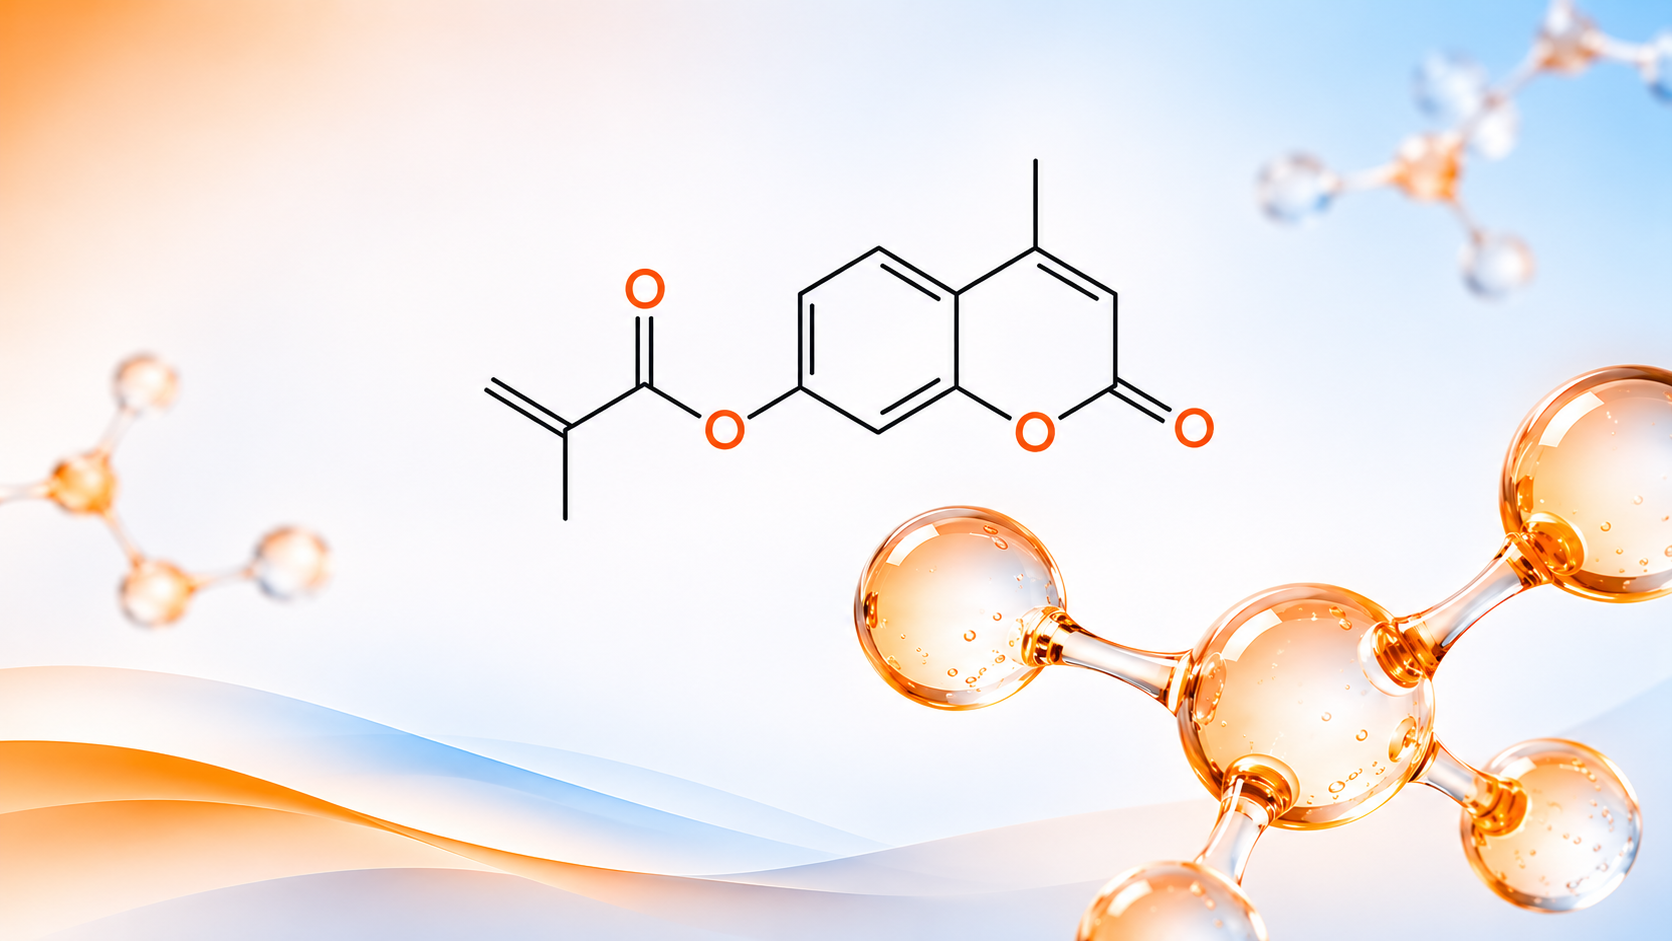
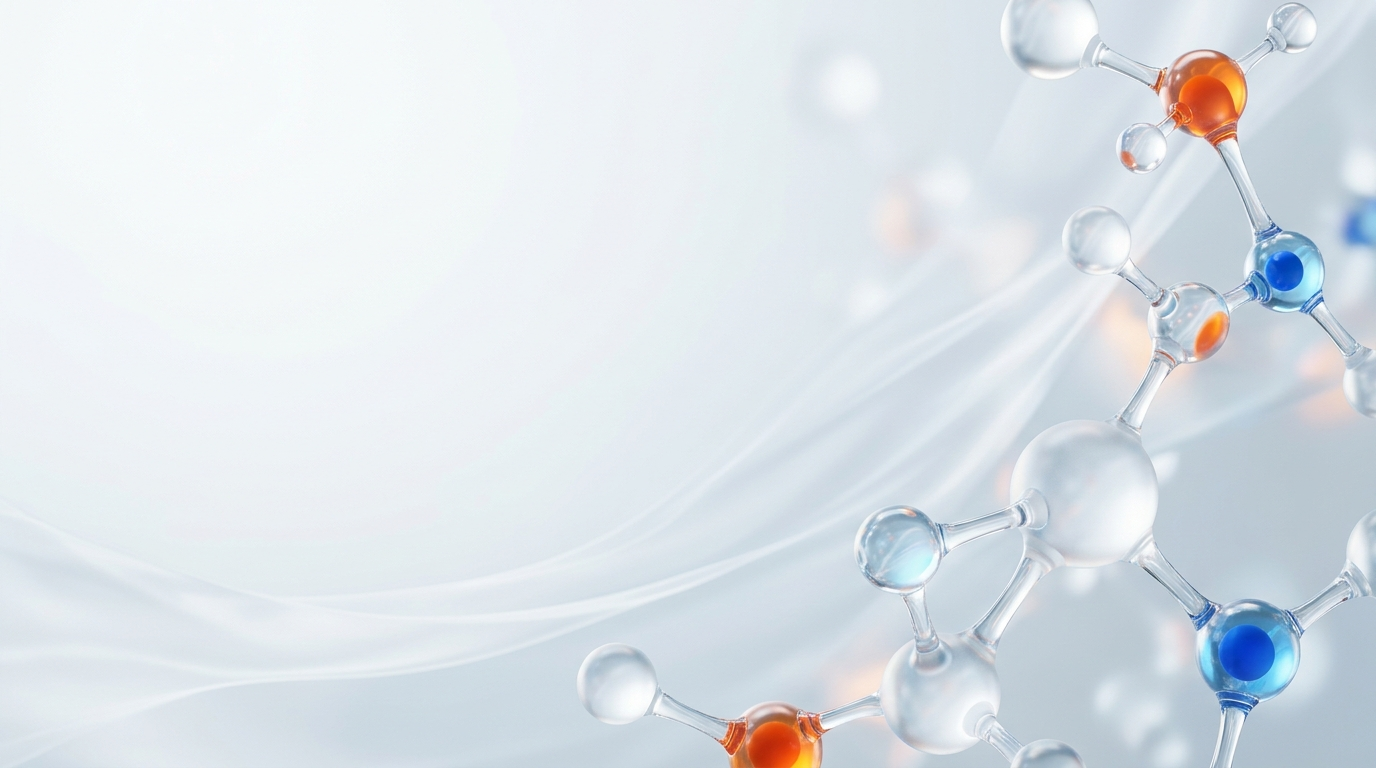
fix(design): standardize subtle chemical backgrounds and high-contrast text overlays across all pages

diff --git a/src/app/solutions/[slug]/page.tsx b/src/app/solutions/[slug]/page.tsx
@@ -31,17 +31,17 @@ export default async function SolutionInnerPage({ params }: PageProps) {
       <main className="min-h-screen bg-white pb-20">
         {/* Solution Hero */}
         <section className="relative bg-gray-100 text-gray-900 pt-20 md:pt-28 pb-16 md:pb-24 overflow-hidden">
-          {/* Background Image with Light Gray/White 50% Translucent Overlay */}
+          {/* Subtle Consistent Chemical Background Overlay */}
           <div className="absolute inset-0 z-0">
             <Image
               src="/images/backgrounds/bg3.png"
               alt="Solution Details Background"
               fill
               priority
-              className="object-cover object-center"
+              className="object-cover object-right md:object-center"
               sizes="100vw"
             />
-            <div className="absolute inset-0 bg-white/50 bg-gradient-to-r from-white/70 via-white/55 to-gray-100/50 backdrop-blur-[1px]" />
+            <div className="absolute inset-0 bg-white/70 bg-gradient-to-r from-white/95 via-white/85 to-white/50 backdrop-blur-[1px]" />
           </div>
 
           <div className="relative z-10 container mx-auto px-5 sm:px-6 lg:px-8 max-w-5xl">

diff --git a/src/app/contact/page.tsx b/src/app/contact/page.tsx
@@ -27,17 +27,17 @@ export default function ContactPage() {
       <Header />
       <main className="min-h-screen bg-gray-50 pb-16 sm:pb-20">
         <section className="relative bg-gray-100 text-gray-900 pt-20 md:pt-28 pb-12 sm:pb-16 md:pb-20 mb-8 sm:mb-12 overflow-hidden">
-          {/* Background Image with Light Gray/White 50% Translucent Overlay */}
+          {/* Subtle Consistent Chemical Background Overlay */}
           <div className="absolute inset-0 z-0">
             <Image
               src="/images/backgrounds/bg5.png"
               alt="Contact National Polymers Background"
               fill
               priority
-              className="object-cover object-center"
+              className="object-cover object-right md:object-center"
               sizes="100vw"
             />
-            <div className="absolute inset-0 bg-white/50 bg-gradient-to-r from-white/70 via-white/55 to-gray-100/50 backdrop-blur-[1px]" />
+            <div className="absolute inset-0 bg-white/70 bg-gradient-to-r from-white/95 via-white/85 to-white/50 backdrop-blur-[1px]" />
           </div>
 
           <div className="relative z-10 container mx-auto px-4 sm:px-6 lg:px-8 max-w-6xl">

diff --git a/src/app/about/page.tsx b/src/app/about/page.tsx
@@ -13,17 +13,17 @@ export default function AboutPage() {
       <main className="min-h-screen bg-white pb-20">
         {/* Hero Section */}
         <section className="relative bg-gray-100 text-gray-900 pt-20 md:pt-28 pb-16 md:pb-24 overflow-hidden">
-          {/* Background Image with Light Gray/White 50% Translucent Overlay */}
+          {/* Subtle Consistent Chemical Background Overlay */}
           <div className="absolute inset-0 z-0">
             <Image
               src="/images/backgrounds/bg3.png"
               alt="About National Polymers Background"
               fill
               priority
-              className="object-cover object-center"
+              className="object-cover object-right md:object-center"
               sizes="100vw"
             />
-            <div className="absolute inset-0 bg-white/50 bg-gradient-to-r from-white/70 via-white/55 to-gray-100/50 backdrop-blur-[1px]" />
+            <div className="absolute inset-0 bg-white/70 bg-gradient-to-r from-white/95 via-white/85 to-white/50 backdrop-blur-[1px]" />
           </div>
 
           <div className="relative z-10 container mx-auto px-5 sm:px-6 lg:px-8 max-w-6xl">

diff --git a/src/app/blogs/page.tsx b/src/app/blogs/page.tsx
@@ -15,17 +15,17 @@ export default async function BlogsPage() {
       <Header />
       <main className="min-h-screen bg-gray-50 pb-20">
         <section className="relative bg-gray-100 text-gray-900 pt-20 md:pt-28 pb-14 md:pb-20 mb-12 overflow-hidden">
-          {/* Background Image with Light Gray/White 50% Translucent Overlay */}
+          {/* Subtle Consistent Chemical Background Overlay */}
           <div className="absolute inset-0 z-0">
             <Image
               src="/images/backgrounds/b4.png"
               alt="Blogs & Insights Background"
               fill
               priority
-              className="object-cover object-center"
+              className="object-cover object-right md:object-center"
               sizes="100vw"
             />
-            <div className="absolute inset-0 bg-white/50 bg-gradient-to-r from-white/70 via-white/55 to-gray-100/50 backdrop-blur-[1px]" />
+            <div className="absolute inset-0 bg-white/70 bg-gradient-to-r from-white/95 via-white/85 to-white/50 backdrop-blur-[1px]" />
           </div>
 
           <div className="relative z-10 container mx-auto px-5 sm:px-6 lg:px-8 max-w-6xl">

diff --git a/src/app/applications/page.tsx b/src/app/applications/page.tsx
@@ -63,17 +63,17 @@ export default function ApplicationsPage() {
       <Header />
       <main className="min-h-screen bg-gray-50 pb-20">
         <section className="relative bg-gray-100 text-gray-900 pt-20 md:pt-28 pb-14 md:pb-20 mb-12 overflow-hidden">
-          {/* Background Image with Light Gray/White 50% Translucent Overlay */}
+          {/* Subtle Consistent Chemical Background Overlay */}
           <div className="absolute inset-0 z-0">
             <Image
               src="/images/backgrounds/bg2.png"
               alt="Applications Background"
               fill
               priority
-              className="object-cover object-center"
+              className="object-cover object-right md:object-center"
               sizes="100vw"
             />
-            <div className="absolute inset-0 bg-white/50 bg-gradient-to-r from-white/70 via-white/55 to-gray-100/50 backdrop-blur-[1px]" />
+            <div className="absolute inset-0 bg-white/70 bg-gradient-to-r from-white/95 via-white/85 to-white/50 backdrop-blur-[1px]" />
           </div>
 
           <div className="relative z-10 container mx-auto px-5 sm:px-6 lg:px-8 max-w-6xl">

diff --git a/src/app/markets/page.tsx b/src/app/markets/page.tsx
@@ -49,17 +49,17 @@ export default function MarketsPage() {
       <Header />
       <main className="min-h-screen bg-gray-50 pb-20">
         <section className="relative bg-gray-100 text-gray-900 pt-20 md:pt-28 pb-14 md:pb-20 mb-12 overflow-hidden">
-          {/* Background Image with Light Gray/White 50% Translucent Overlay */}
+          {/* Subtle Consistent Chemical Background Overlay */}
           <div className="absolute inset-0 z-0">
             <Image
               src="/images/backgrounds/bg5.png"
               alt="Global Markets Background"
               fill
               priority
-              className="object-cover object-center"
+              className="object-cover object-right md:object-center"
               sizes="100vw"
             />
-            <div className="absolute inset-0 bg-white/50 bg-gradient-to-r from-white/70 via-white/55 to-gray-100/50 backdrop-blur-[1px]" />
+            <div className="absolute inset-0 bg-white/70 bg-gradient-to-r from-white/95 via-white/85 to-white/50 backdrop-blur-[1px]" />
           </div>
 
           <div className="relative z-10 container mx-auto px-5 sm:px-6 lg:px-8 max-w-6xl">

diff --git a/src/app/products/[slug]/page.tsx b/src/app/products/[slug]/page.tsx
@@ -40,17 +40,17 @@ export default async function ProductInnerPage({ params }: PageProps) {
 
         {/* ─── HERO BANNER ─── */}
         <section className="relative bg-gray-100 overflow-hidden pt-20 md:pt-28 pb-12 sm:pb-16 md:pb-20">
-          {/* Background Image with Light Gray/White 50% Translucent Overlay */}
+          {/* Subtle Consistent Chemical Background Overlay */}
           <div className="absolute inset-0 z-0">
             <Image
               src="/images/backgrounds/b4.png"
               alt="Product Details Background"
               fill
               priority
-              className="object-cover object-center"
+              className="object-cover object-right md:object-center"
               sizes="100vw"
             />
-            <div className="absolute inset-0 bg-white/50 bg-gradient-to-r from-white/70 via-white/55 to-gray-100/50 backdrop-blur-[1px]" />
+            <div className="absolute inset-0 bg-white/70 bg-gradient-to-r from-white/95 via-white/85 to-white/50 backdrop-blur-[1px]" />
           </div>
 
           <div className="relative z-10 container mx-auto px-4 sm:px-6 lg:px-8 max-w-6xl">

diff --git a/src/app/solutions/page.tsx b/src/app/solutions/page.tsx
@@ -12,17 +12,17 @@ export default function SolutionsPage() {
       <Header />
       <main className="min-h-screen bg-gray-50 pb-20">
         <section className="relative bg-gray-100 text-gray-900 pt-20 md:pt-28 pb-14 md:pb-20 mb-12 overflow-hidden">
-          {/* Background Image with Light Gray/White 50% Translucent Overlay */}
+          {/* Subtle Consistent Chemical Background Overlay */}
           <div className="absolute inset-0 z-0">
             <Image
               src="/images/backgrounds/bg3.png"
               alt="Solutions Background"
               fill
               priority
-              className="object-cover object-center"
+              className="object-cover object-right md:object-center"
               sizes="100vw"
             />
-            <div className="absolute inset-0 bg-white/50 bg-gradient-to-r from-white/70 via-white/55 to-gray-100/50 backdrop-blur-[1px]" />
+            <div className="absolute inset-0 bg-white/70 bg-gradient-to-r from-white/95 via-white/85 to-white/50 backdrop-blur-[1px]" />
           </div>
 
           <div className="relative z-10 container mx-auto px-5 sm:px-6 lg:px-8 max-w-6xl">

diff --git a/src/app/enquiry/page.tsx b/src/app/enquiry/page.tsx
@@ -180,17 +180,17 @@ function EnquiryFormContent() {
     <main className="min-h-screen bg-gray-50 pb-20">
       {/* ─── HERO BANNER ─── */}
       <section className="relative bg-gray-100 text-gray-900 pt-20 md:pt-28 pb-12 sm:pb-16 mb-8 sm:mb-10 overflow-hidden">
-        {/* Background Image with Light Gray/White 50% Translucent Overlay */}
+        {/* Subtle Consistent Chemical Background Overlay */}
         <div className="absolute inset-0 z-0">
           <Image
             src="/images/backgrounds/bg2.png"
             alt="Request Quote Background"
             fill
             priority
-            className="object-cover object-center"
+            className="object-cover object-right md:object-center"
             sizes="100vw"
           />
-          <div className="absolute inset-0 bg-white/50 bg-gradient-to-r from-white/70 via-white/55 to-gray-100/50 backdrop-blur-[1px]" />
+          <div className="absolute inset-0 bg-white/70 bg-gradient-to-r from-white/95 via-white/85 to-white/50 backdrop-blur-[1px]" />
         </div>
 
         <div className="relative z-10 container mx-auto px-5 sm:px-6 lg:px-8 max-w-5xl">

diff --git a/src/app/products/page.tsx b/src/app/products/page.tsx
@@ -20,17 +20,17 @@ export default async function ProductsPage() {
 
         {/* ─── HERO BANNER ─── */}
         <section className="relative bg-gray-100 overflow-hidden pt-20 md:pt-28 pb-14 sm:pb-20 md:pb-24">
-          {/* Background Image with Light Gray/White 50% Translucent Overlay */}
+          {/* Subtle Consistent Chemical Background Overlay */}
           <div className="absolute inset-0 z-0">
             <Image
               src="/images/backgrounds/b4.png"
               alt="Products Catalog Background"
               fill
               priority
-              className="object-cover object-center"
+              className="object-cover object-right md:object-center"
               sizes="100vw"
             />
-            <div className="absolute inset-0 bg-white/50 bg-gradient-to-r from-white/70 via-white/55 to-gray-100/50 backdrop-blur-[1px]" />
+            <div className="absolute inset-0 bg-white/70 bg-gradient-to-r from-white/95 via-white/85 to-white/50 backdrop-blur-[1px]" />
           </div>
 
           <div className="relative z-10 container mx-auto px-4 sm:px-6 lg:px-8 max-w-6xl">

diff --git a/src/components/MaterialFinder.tsx b/src/components/MaterialFinder.tsx
@@ -86,17 +86,16 @@ export const MaterialFinder: React.FC = () => {
       className="relative w-full py-12 sm:py-18 md:py-24 text-gray-900 overflow-hidden bg-gray-100 transition-colors duration-300"
       aria-labelledby="material-finder-title"
     >
-      {/* Background Image with Light Gray/White 50% Translucent Overlay */}
+      {/* Subtle Consistent Chemical Background Overlay */}
       <div className="absolute inset-0 z-0">
         <Image
           src="/images/backgrounds/bg2.png"
           alt="Material Finder Industrial Background"
           fill
-          className="object-cover object-center"
+          className="object-cover object-right md:object-center"
           sizes="100vw"
         />
-        {/* White/Light-Gray 50% Overlay */}
-        <div className="absolute inset-0 bg-white/50 bg-gradient-to-r from-white/70 via-white/55 to-gray-100/50 backdrop-blur-[1px]" />
+        <div className="absolute inset-0 bg-white/75 bg-gradient-to-r from-white/95 via-white/85 to-white/60 backdrop-blur-[1px]" />
       </div>
 
       <div className="relative z-10 container mx-auto px-4 sm:px-6 lg:px-8">
